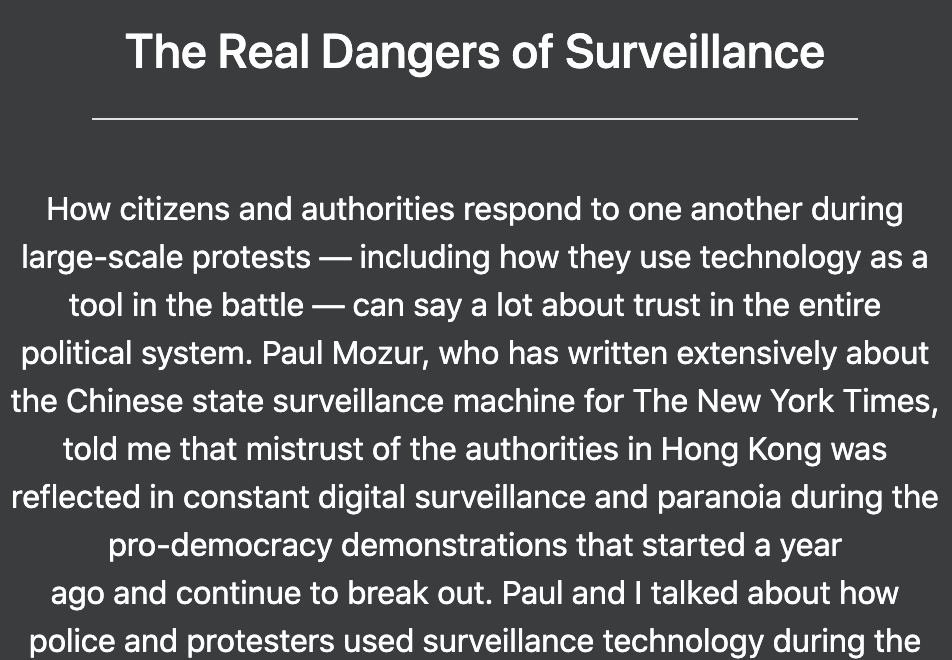
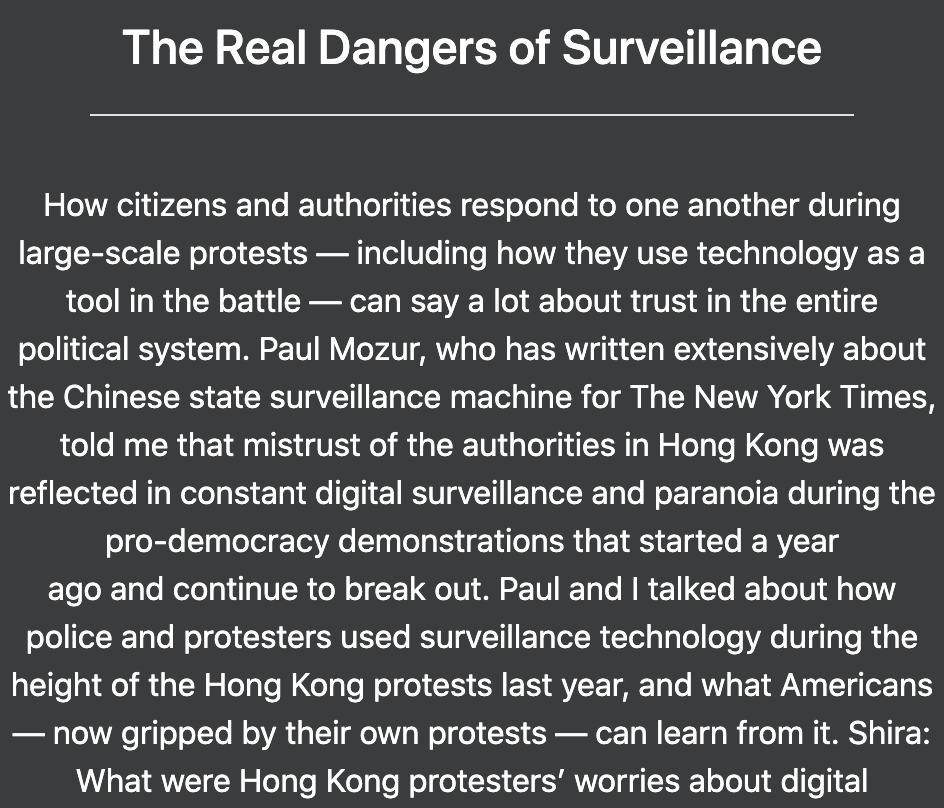
Resized article thumbnails.

Changed region(s): [[0.0, 0.303, 1.0, 1.0], [0.1229, 0.0303, 0.8909, 0.1212], [0.0307, 0.2424, 0.9523, 0.2727]]

diff --git a/static/styles/home.css b/static/styles/home.css
@@ -24,15 +24,15 @@
 
 .gallery {
   text-align: center;
-  margin: 10px 50px;
+  margin: 50px 50px;
 }
 .gallery .img-wrap {
   background-color: rgb(27, 82, 100);
   transition: 0.666s;
   border-radius: 25px;
   margin: 10px;
-  width: 250px;
-  height: 182px;
+  width: 300px;
+  height: 218px;
   display: inline-block;
   border: 2px solid rgb(255, 65, 128);
   overflow: hidden;
@@ -46,7 +46,7 @@
 .img-desc {
   position: absolute;
   top: 40%;
-  left: 28%;
+  left: 30%;
   visibility: hidden;
   opacity: 0;
   border-color: rgb(255, 65, 128);
